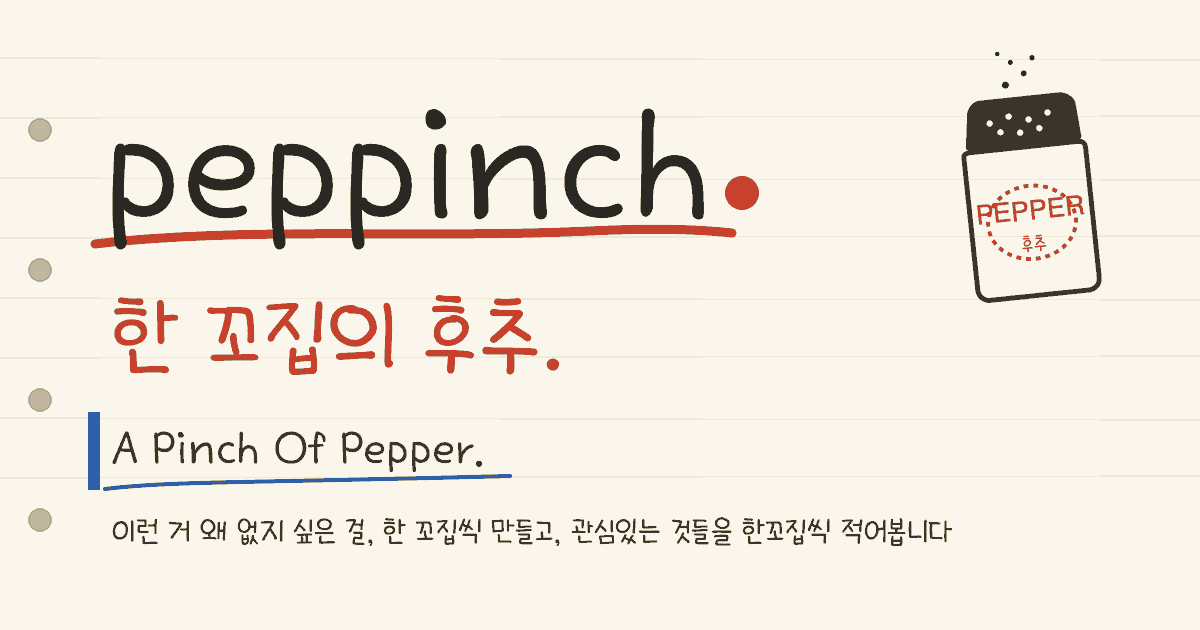
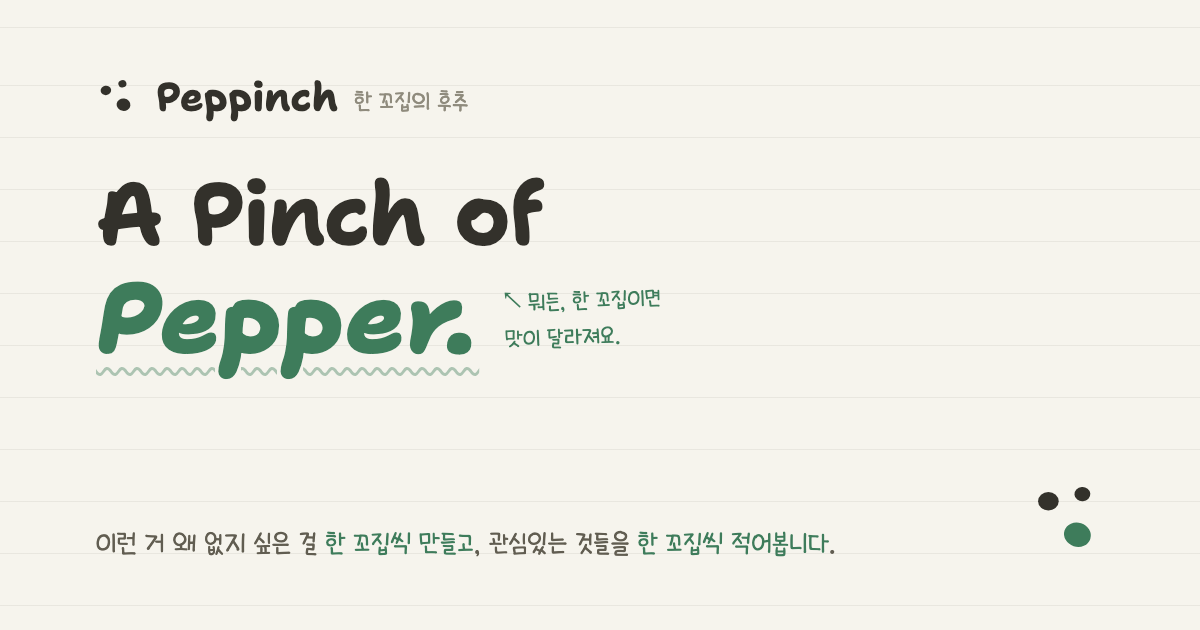
brand: 파비콘·OG 이미지 세이지 그린 리디자인 정합
- og-image.png: 구 아이덴티티(빨강·파랑·PEPPER 후추통) → 홈 히어로 그대로
  (A Pinch of Pepper.·물결 밑줄·교보 손글씨 메모·크림 괘선 배경)
- favicon.svg: 크림 라운드 배경 추가(다크모드 탭 가시성) + 큰 후추알 세이지 포인트
- og-image.svg(구버전 소스·미참조) 삭제, 재생성 소스는 scripts/og_src.html로 보관
  (갱신 시: Chrome headless --screenshot=og-image.png --window-size=1200,630)

diff --git a/scripts/og_src.html b/scripts/og_src.html
@@ -1,0 +1,39 @@
+<!doctype html><html><head><meta charset="utf-8">
+<link href="https://fonts.googleapis.com/css2?family=Gowun+Dodum&family=Shantell+Sans:ital,wght@0,300..800;1,300..800&display=swap" rel="stylesheet">
+<style>
+@font-face{font-family:"Kyobo";src:url("fonts/KyoboHandwriting2019.woff2") format("woff2")}
+body{margin:0;width:1200px;height:630px;background:#F6F4ED;color:#33312B;position:relative;overflow:hidden;
+font-family:'Gowun Dodum',sans-serif;
+background-image:repeating-linear-gradient(transparent,transparent 51px,rgba(51,49,43,0.07) 51px,rgba(51,49,43,0.07) 52px);
+background-position:0 34px}
+.wrap{padding:70px 96px;display:flex;flex-direction:column;height:100%;box-sizing:border-box;position:relative}
+.brand{display:flex;align-items:center;gap:16px}
+.brand svg{width:44px;height:44px}
+.bn{font-family:'Shantell Sans',cursive;font-weight:700;font-size:40px}
+.bt{font-family:'Kyobo';font-size:24px;color:#8F8B7D;padding-top:8px}
+.hero{margin-top:44px}
+.h1{font-family:'Shantell Sans',cursive;font-weight:700;font-size:88px;line-height:1.05;letter-spacing:-0.02em}
+.row{display:flex;align-items:flex-end;gap:26px}
+.pepper{font-family:'Shantell Sans',cursive;font-style:italic;font-weight:800;font-size:100px;line-height:1.16;color:#3E7C5B;
+text-decoration:underline wavy rgba(62,124,91,0.4) 3px;text-underline-offset:14px}
+.note{font-family:'Kyobo';font-size:23px;line-height:1.55;color:#3E7C5B;padding-bottom:22px;transform:rotate(-2deg)}
+.sub{margin-top:auto;font-family:'Kyobo';font-size:27px;color:#615D51}
+.sub b{color:#3E7C5B;font-weight:400}
+.dots{position:absolute;right:88px;bottom:64px;transform:rotate(10deg)}
+</style></head><body>
+<div class="wrap">
+  <div class="brand">
+    <svg viewBox="0 0 40 40"><ellipse cx="24" cy="8" rx="3.7" ry="3.3" fill="#33312B" transform="rotate(-15 24 8)"/><ellipse cx="9" cy="14" rx="4.8" ry="4.3" fill="#33312B" transform="rotate(-10 9 14)"/><ellipse cx="25" cy="27" rx="6.3" ry="5.6" fill="#33312B" transform="rotate(8 25 27)"/></svg>
+    <span class="bn">Peppinch</span><span class="bt">한 꼬집의 후추</span>
+  </div>
+  <div class="hero">
+    <div class="h1">A Pinch of</div>
+    <div class="row">
+      <span class="pepper">Pepper.</span>
+      <span class="note">↖ 뭐든, 한 꼬집이면<br>맛이 달라져요.</span>
+    </div>
+  </div>
+  <div class="sub">이런 거 왜 없지 싶은 걸 <b>한 꼬집씩 만들고</b>, 관심있는 것들을 <b>한 꼬집씩 적어봅니다</b>.</div>
+  <div class="dots"><svg width="86" height="86" viewBox="0 0 40 40"><ellipse cx="24" cy="8" rx="3.7" ry="3.3" fill="#33312B" transform="rotate(-15 24 8)"/><ellipse cx="9" cy="14" rx="4.8" ry="4.3" fill="#33312B" transform="rotate(-10 9 14)"/><ellipse cx="25" cy="27" rx="6.3" ry="5.6" fill="#3E7C5B" transform="rotate(8 25 27)"/></svg></div>
+</div>
+</body></html>
